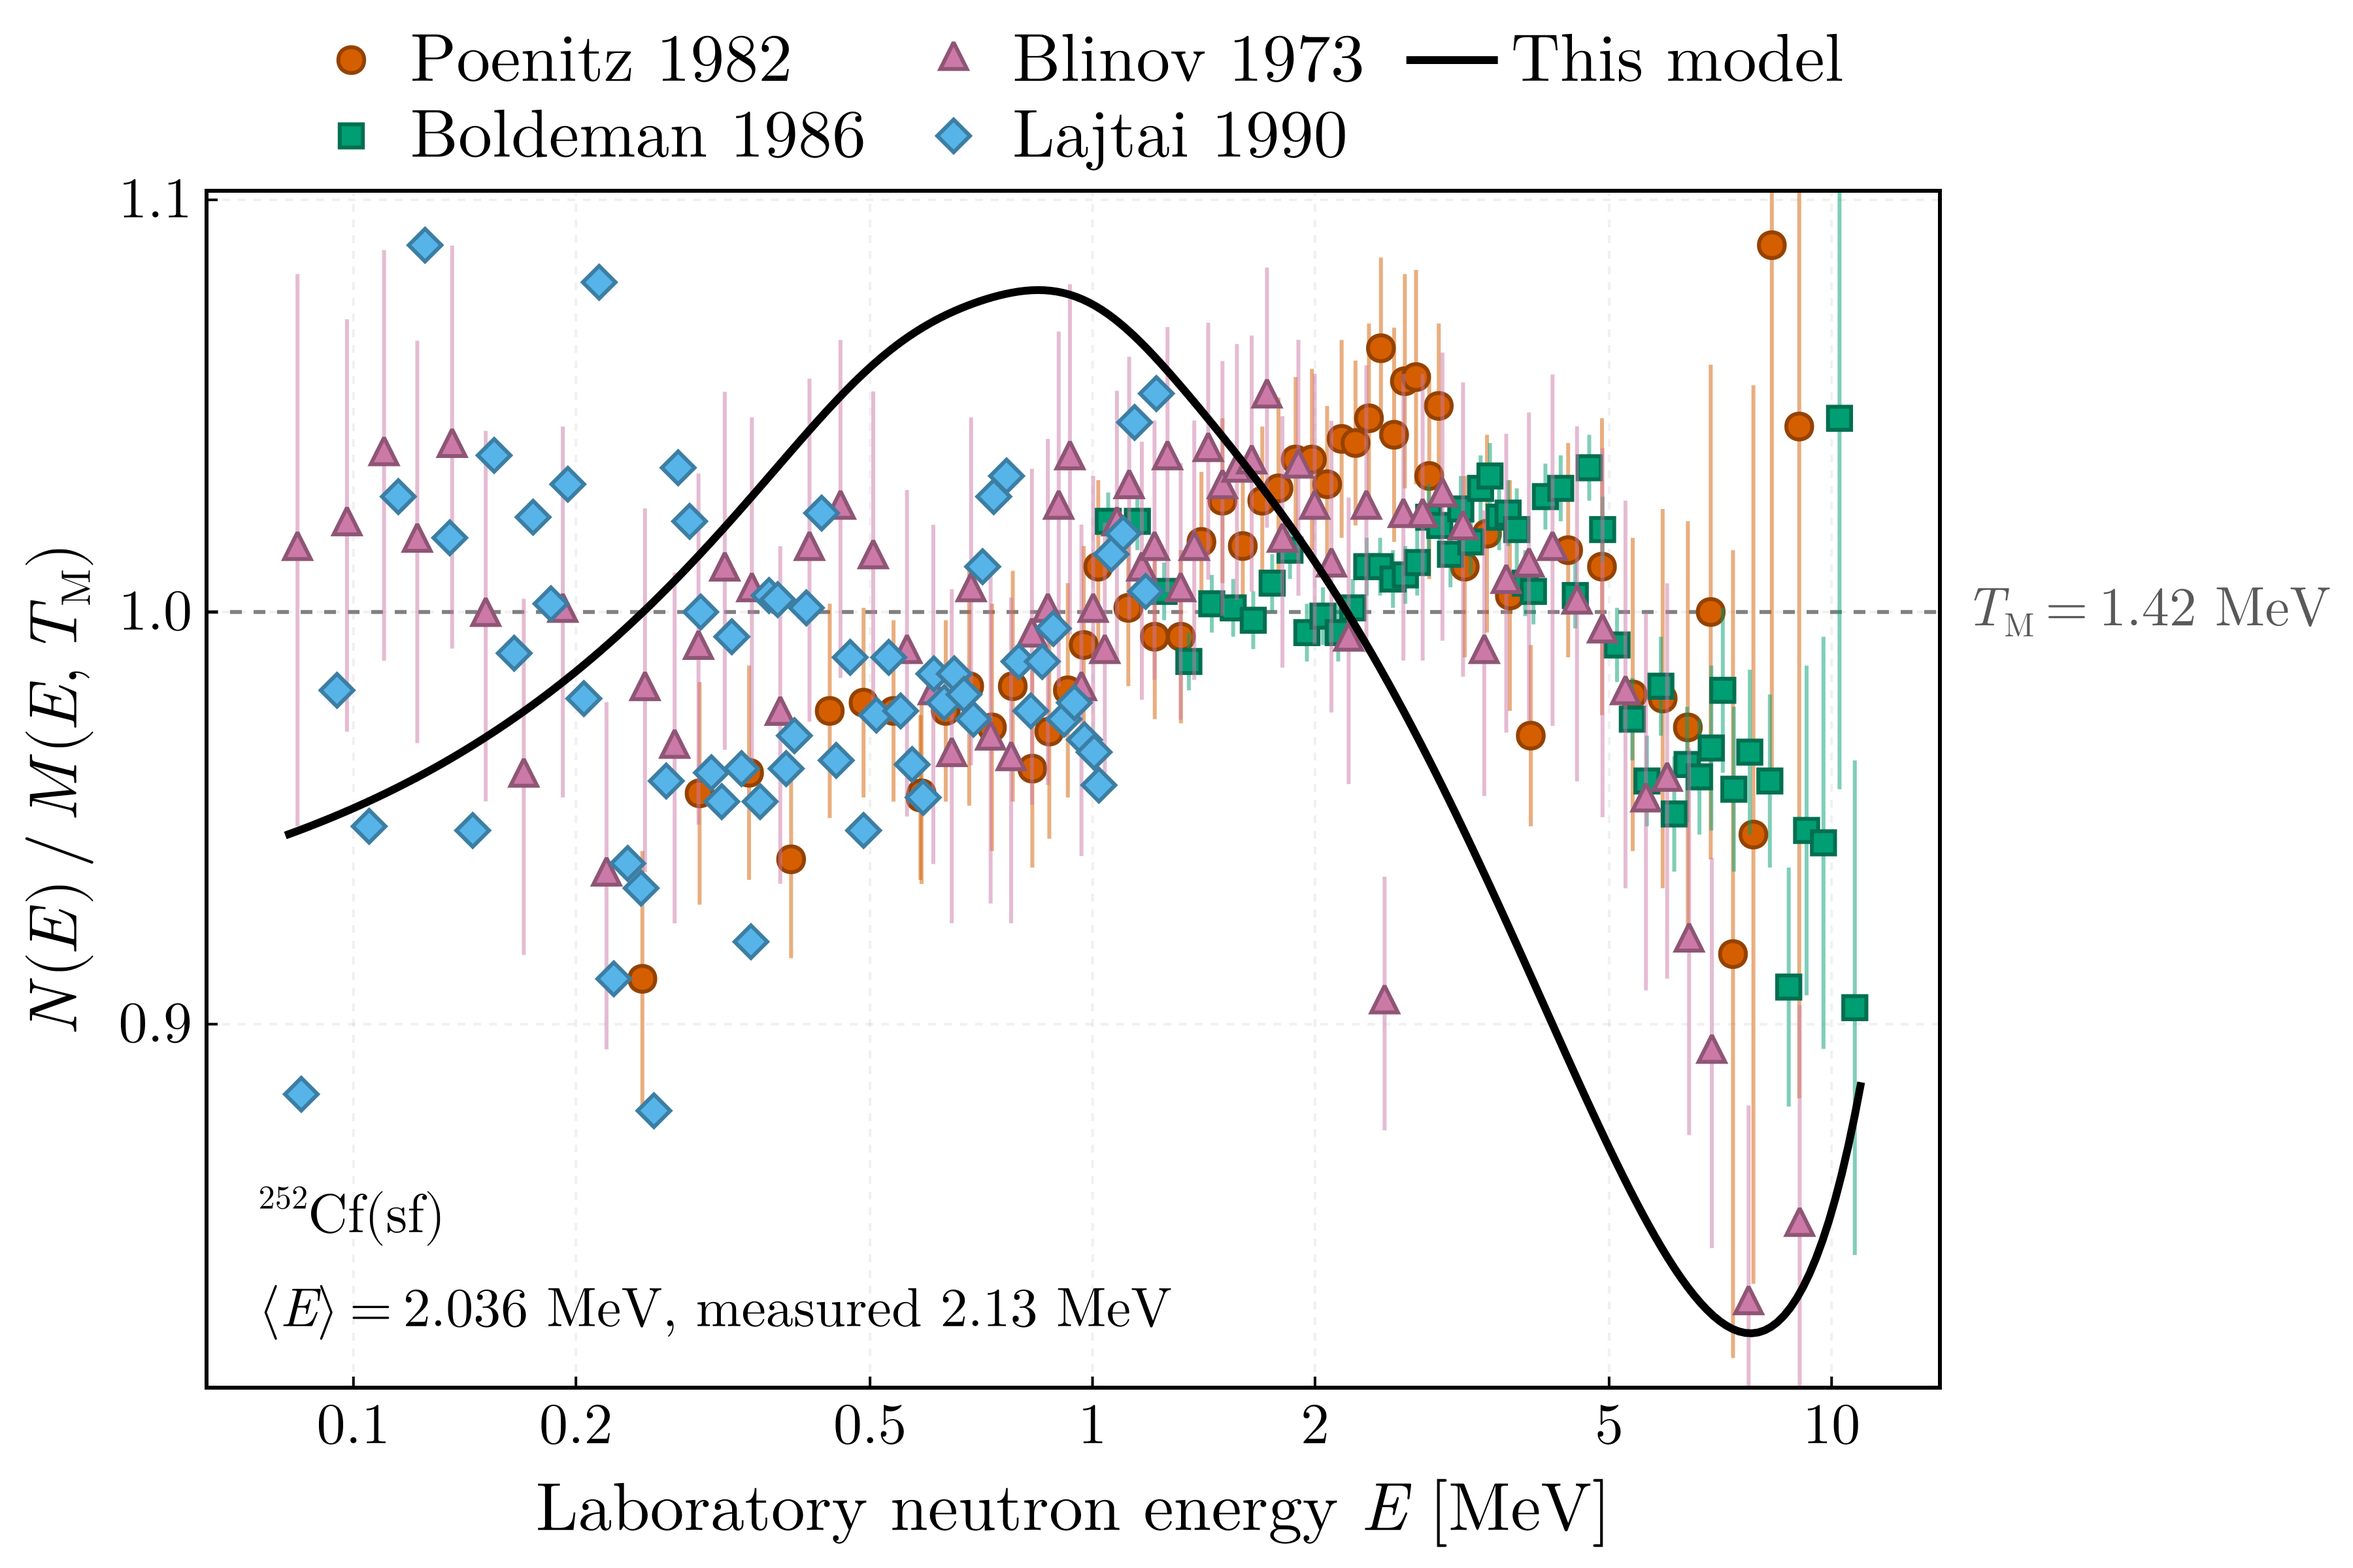
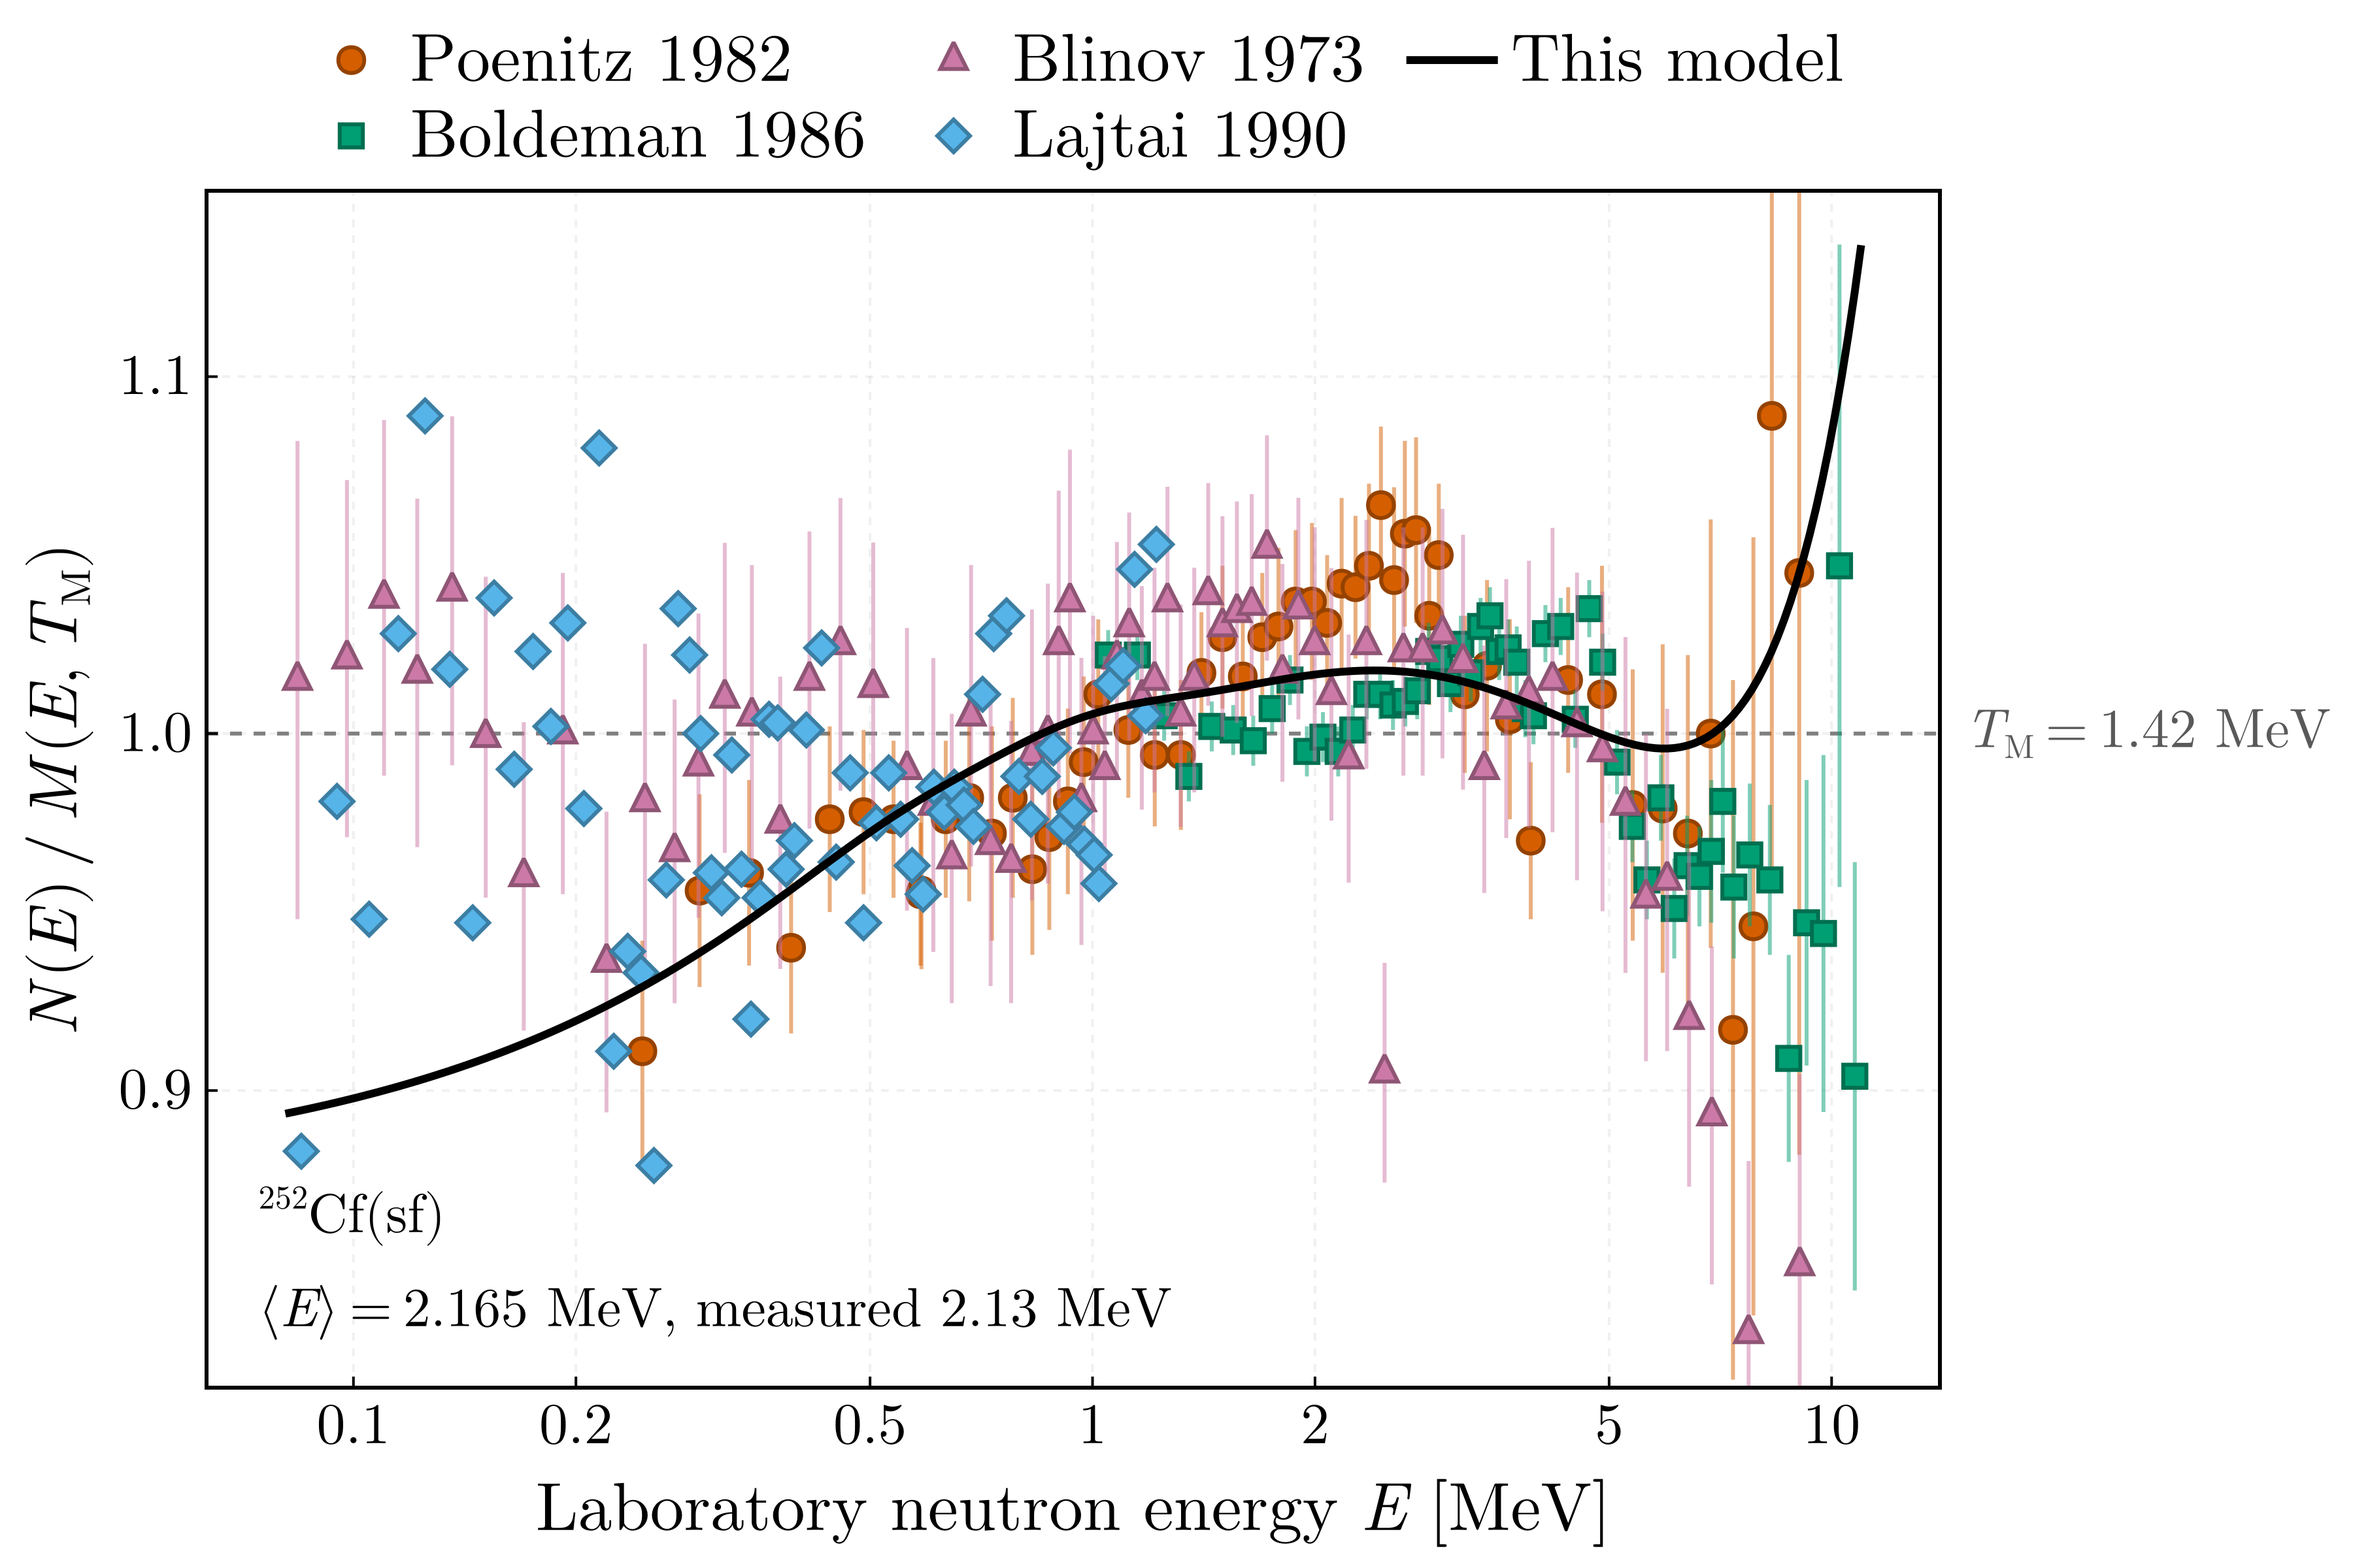
docs(figures): redraw from the baselines under the emission-probability weighting
Baselines at c280dfe on the ExforFissionData v0.2.7 tree and the FissionTemperatureRatio v0.2.3 runs. The mean laboratory energies are 2.1654 (252-Cf), 1.9545 (235-U), 2.0414 (239-Pu) and 2.0068 MeV (233-U); the multiplicities are unchanged. The 252-Cf spectrum follows the measured ratio to a Maxwellian between 0.3 and 5 MeV and is hard beyond 6 MeV, which the README now says.

diff --git a/README.md b/README.md
@@ -175,7 +175,8 @@ fragmentation enters the total by its yield times its multiplicity, so every emi
 counts once, as it does in a measurement. Within a fragment the `k`-th neutron of a chain of `n`
 counts with `(n+1−k)/n`, its probability of emission under `ν = (n+1)/2`. The mean laboratory
 energy of ²⁵²Cf(sf) is 2.17 MeV against 2.13 measured, and those of the three thermal systems
-lie 1 to 2 % below the measured values. The uniform average over the sequences of the earlier
+lie 1 to 2 % below the measured values. The ²⁵²Cf spectrum follows the measured shape between
+0.3 and 5 MeV, lies below the data under 0.3 MeV and above them beyond 6 MeV. The uniform average over the sequences of the earlier
 work, `[spectrum] sequence_weighting = "uniform"`, is 4 to 7 % soft.
 
 Three departures from measurement are known and are not tuned away.
